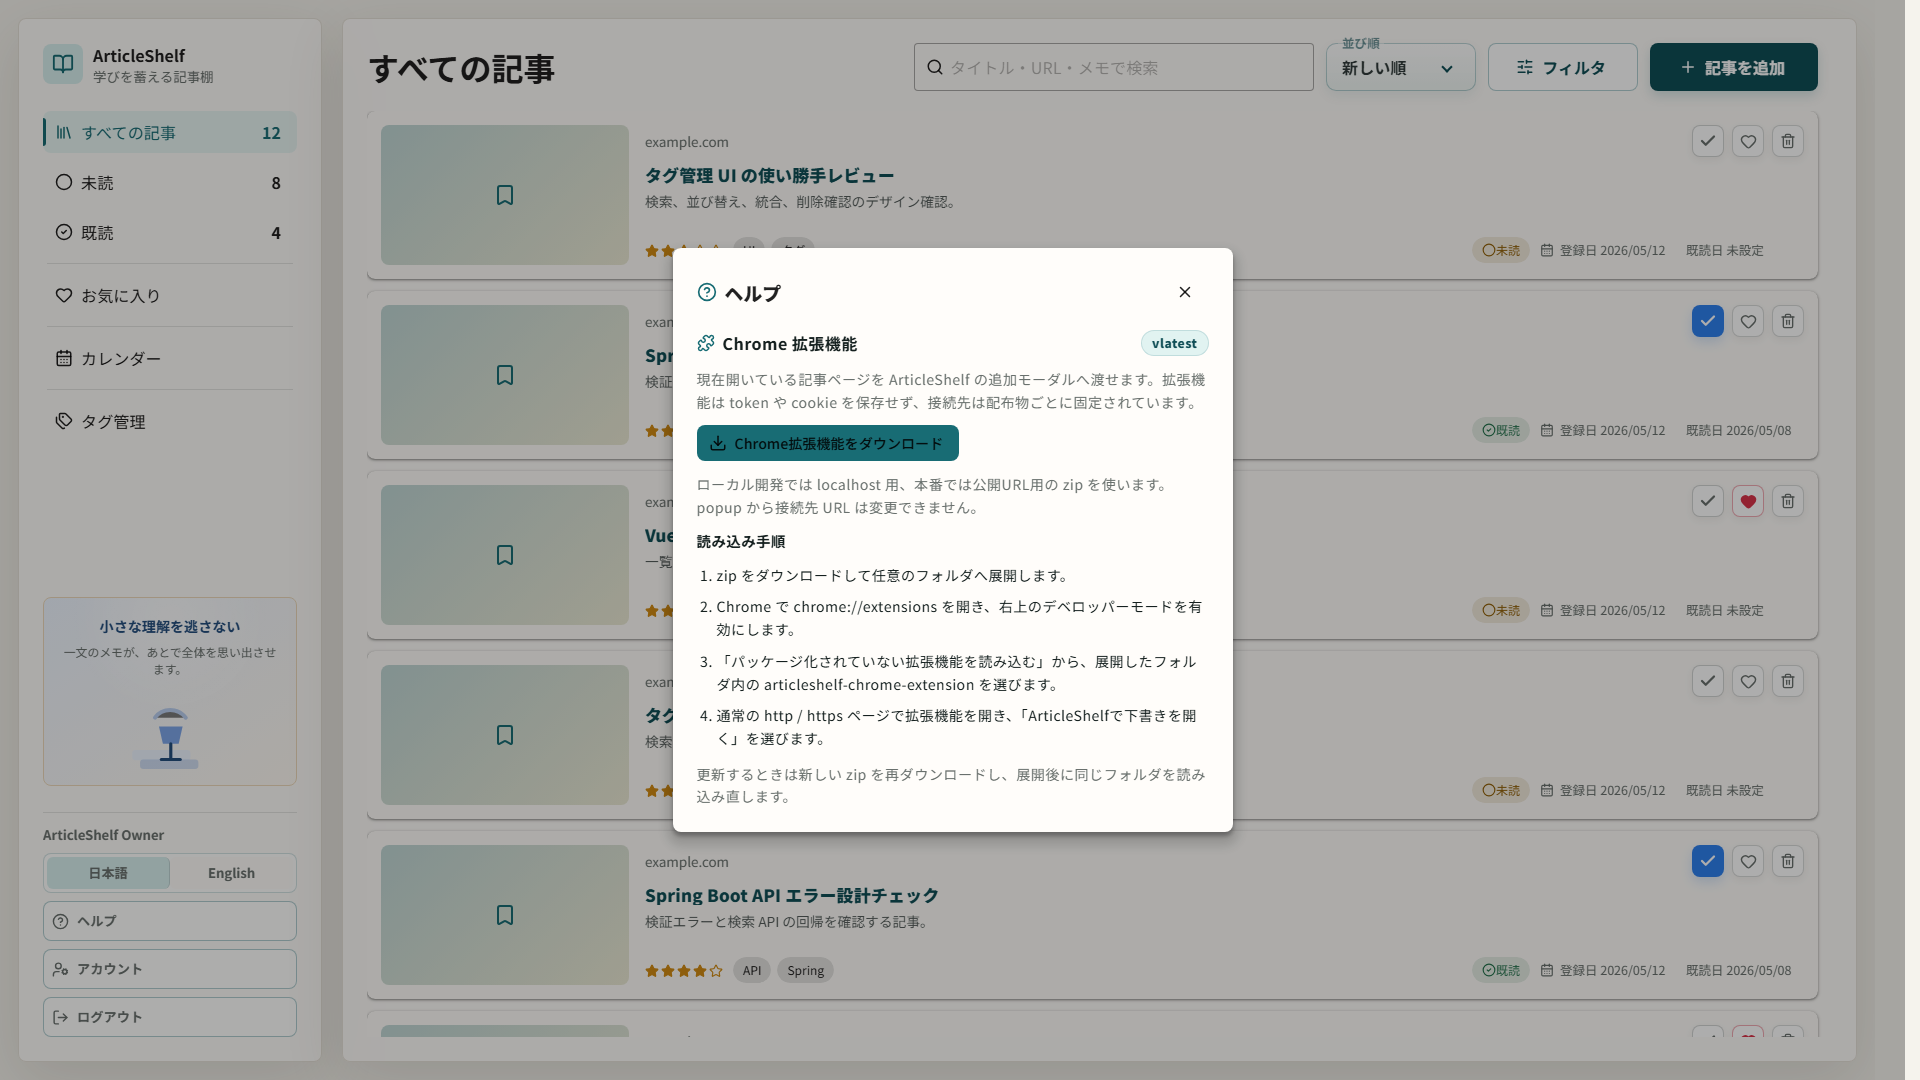
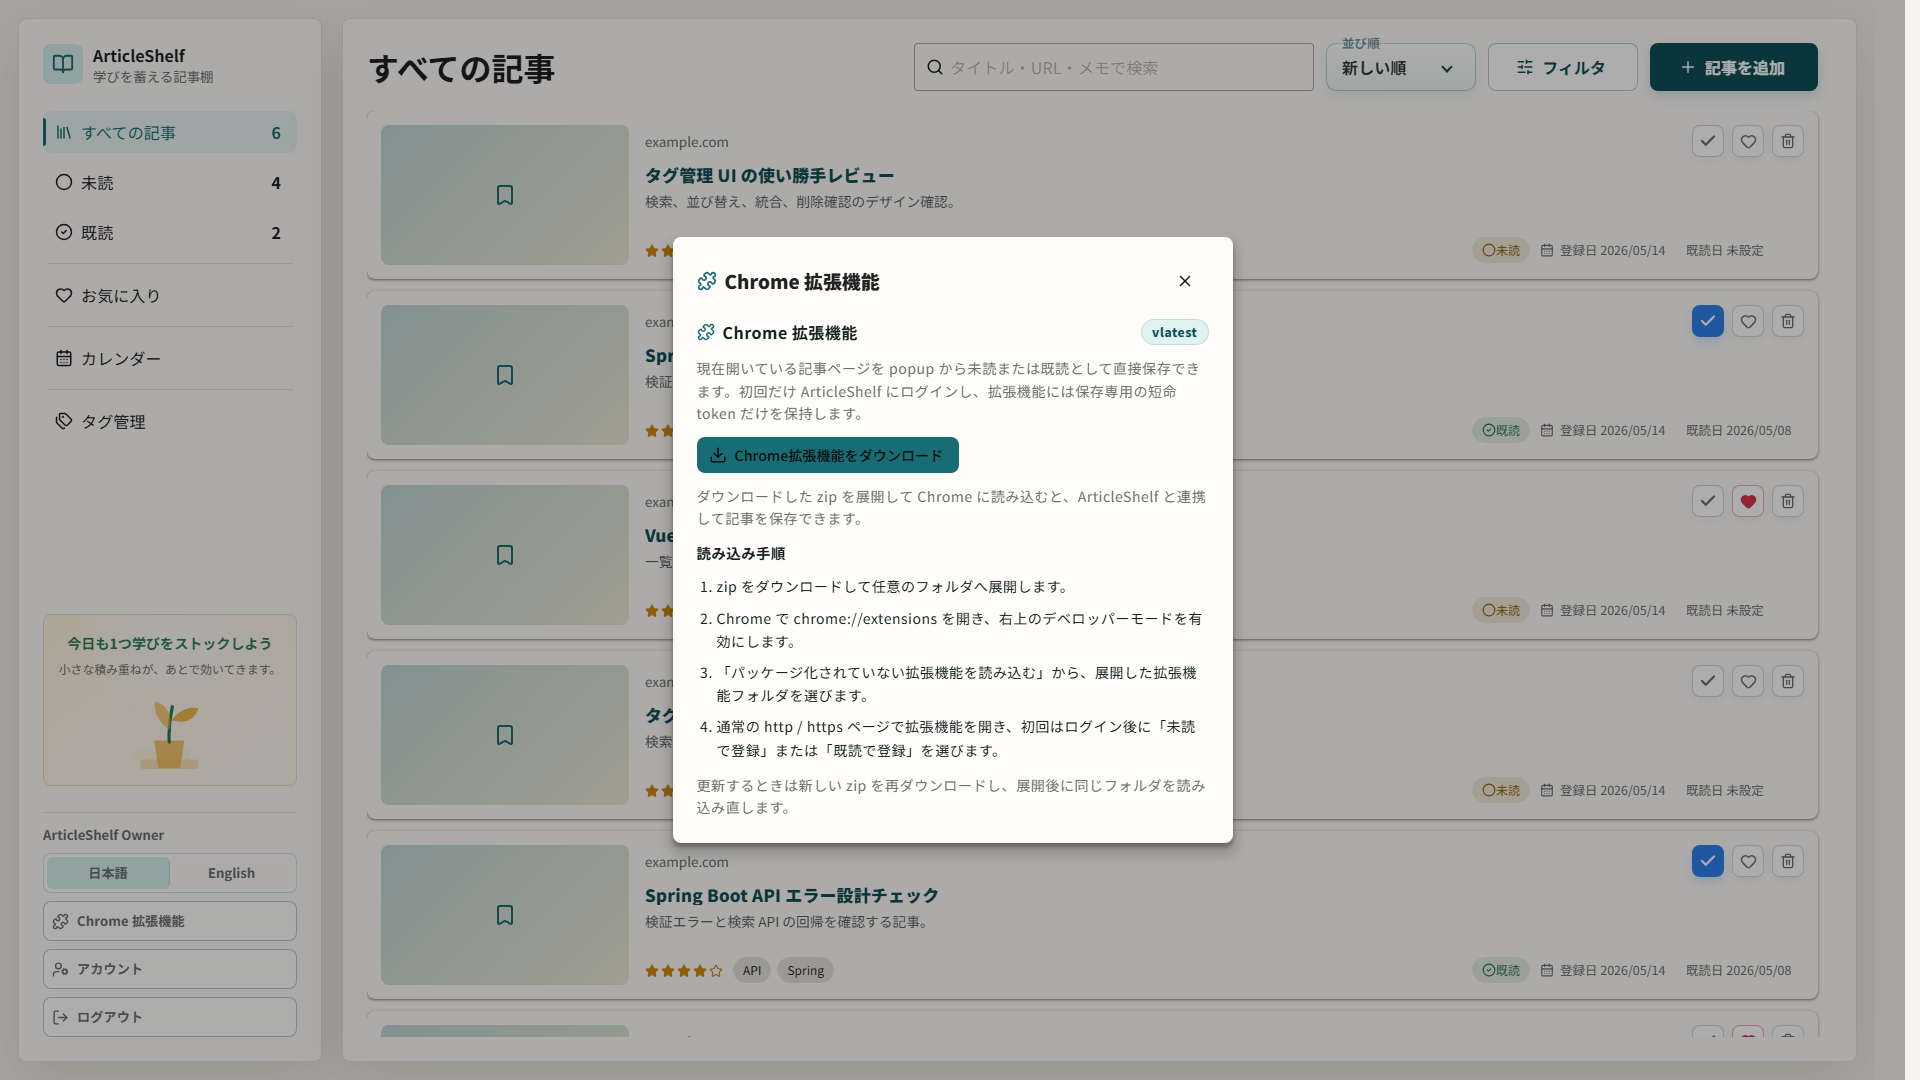
feat: Update Help dialog and sidebar to reflect Chrome extension functionality

diff --git a/frontend/src/shared/i18n/messages/ja.ts b/frontend/src/shared/i18n/messages/ja.ts
@@ -124,12 +124,12 @@ export const ja = {
       }
     },
     help: {
-      title: 'ヘルプ',
+      title: 'Chrome 拡張機能',
       chromeExtensionTitle: 'Chrome 拡張機能',
       extensionVersion: 'v{version}',
       chromeExtensionDescription: '現在開いている記事ページを popup から未読または既読として直接保存できます。初回だけ ArticleShelf にログインし、拡張機能には保存専用の短命 token だけを保持します。',
       chromeExtensionDownload: 'Chrome拡張機能をダウンロード',
-      chromeExtensionTarget: 'ローカル開発では localhost 用、本番では公開URL用の zip を使います。popup から接続先 URL は変更できません。',
+      chromeExtensionTarget: 'ダウンロードした zip を展開して Chrome に読み込むと、ArticleShelf と連携して記事を保存できます。',
       chromeExtensionStepsTitle: '読み込み手順',
       chromeExtensionStepOne: 'zip をダウンロードして任意のフォルダへ展開します。',
       chromeExtensionStepTwo: 'Chrome で chrome://extensions を開き、右上のデベロッパーモードを有効にします。',
@@ -151,7 +151,7 @@ export const ja = {
       favorite: 'お気に入り',
       calendar: 'カレンダー',
       tagManagement: 'タグ管理',
-      help: 'ヘルプ',
+      help: 'Chrome 拡張機能',
       account: 'アカウント',
       logout: 'ログアウト'
     },

diff --git a/frontend/src/shared/i18n/messages/en.ts b/frontend/src/shared/i18n/messages/en.ts
@@ -124,12 +124,12 @@ export const en = {
       }
     },
     help: {
-      title: 'Help',
+      title: 'Chrome extension',
       chromeExtensionTitle: 'Chrome extension',
       extensionVersion: 'v{version}',
       chromeExtensionDescription: 'Save the current article page directly from the popup as unread or read. You log in to ArticleShelf once, and the extension stores only a short-lived save-only token.',
       chromeExtensionDownload: 'Download Chrome extension',
-      chromeExtensionTarget: 'Use the localhost package for local development and the public URL package for production. The popup cannot change the target URL.',
+      chromeExtensionTarget: 'Download and extract the zip, then load it in Chrome to save articles directly to ArticleShelf.',
       chromeExtensionStepsTitle: 'Load in Chrome',
       chromeExtensionStepOne: 'Download the zip file and extract it to any folder.',
       chromeExtensionStepTwo: 'Open chrome://extensions in Chrome and enable Developer mode in the top right.',
@@ -151,7 +151,7 @@ export const en = {
       favorite: 'Favorites',
       calendar: 'Calendar',
       tagManagement: 'Tag management',
-      help: 'Help',
+      help: 'Chrome extension',
       account: 'Account',
       logout: 'Log out'
     },

diff --git a/frontend/src/features/articles/components/HelpDialog.test.ts b/frontend/src/features/articles/components/HelpDialog.test.ts
@@ -12,10 +12,12 @@ describe('HelpDialog', () => {
   it('shows Chrome extension download and loading steps', () => {
     const { root, app } = mountHelpDialog()
 
-    expect(root.textContent).toContain('ヘルプ')
     expect(root.textContent).toContain('Chrome 拡張機能')
+    expect(root.textContent).toContain('ArticleShelf と連携して記事を保存できます')
     expect(root.textContent).toContain('読み込み手順')
     expect(root.textContent).toContain('デベロッパーモード')
+    expect(root.textContent).not.toContain('ローカル開発')
+    expect(root.textContent).not.toContain('本番')
 
     const downloadLink = root.querySelector<HTMLAnchorElement>('a[download]')
     expect(downloadLink?.getAttribute('href')).toBe('/downloads/articleshelf-chrome-extension-local.zip')

diff --git a/frontend/src/features/articles/components/HelpDialog.vue b/frontend/src/features/articles/components/HelpDialog.vue
@@ -1,7 +1,7 @@
 <script setup lang="ts">
 import { onMounted, ref } from "vue";
 import { useI18n } from "vue-i18n";
-import { CircleHelp, Download, Puzzle, X } from "lucide-vue-next";
+import { Download, Puzzle, X } from "lucide-vue-next";
 import {
   extensionDownloadUrl,
   shouldLoadExtensionVersionFromGitHub,
@@ -68,7 +68,7 @@ function handleDialogUpdate(open: boolean): void {
     <VCard class="help-dialog">
       <header class="article-modal-header help-dialog-header">
         <h2>
-          <CircleHelp :size="20" />
+          <Puzzle :size="20" />
           <span>{{ t("help.title") }}</span>
         </h2>
         <div class="article-modal-header-actions">

diff --git a/frontend/src/features/articles/components/ArticleWorkspaceShell.vue b/frontend/src/features/articles/components/ArticleWorkspaceShell.vue
@@ -4,12 +4,12 @@ import {
   CalendarDays,
   CheckCircle2,
   Circle,
-  CircleHelp,
   Heart,
   Library,
   LogOut,
   Menu,
   Plus,
+  Puzzle,
   Tags,
   UserCog,
 } from "lucide-vue-next";
@@ -230,7 +230,7 @@ function setDrawerOpen(value: boolean): void {
             @click="emit('help')"
           >
             <template #prepend>
-              <CircleHelp :size="17" />
+              <Puzzle :size="17" />
             </template>
             {{ t("nav.help") }}
           </VBtn>

diff --git a/frontend/src/features/articles/components/AppSidebar.vue b/frontend/src/features/articles/components/AppSidebar.vue
@@ -4,10 +4,10 @@ import {
   CalendarDays,
   CheckCircle2,
   Circle,
-  CircleHelp,
   Heart,
   Library,
   LogOut,
+  Puzzle,
   Tags,
   UserCog,
 } from "lucide-vue-next";
@@ -178,7 +178,7 @@ function changeLocale(value: unknown): void {
         @click="emit('help')"
       >
         <template #prepend>
-          <CircleHelp :size="17" />
+          <Puzzle :size="17" />
         </template>
         {{ t("nav.help") }}
       </VBtn>

diff --git a/docs/specs/ui/README.md b/docs/specs/ui/README.md
@@ -129,9 +129,10 @@
 - 入力欄の項目名は入力欄外の固定ラベルとして表示し、ブラウザの自動入力時に入力値と重ならないようにする
 - 入力欄のプレースホルダーは入力例に限定し、ユーザー登録時のユーザー名やパスワードの入力ルールは欄下のヒントとして表示する
 - 認証処理中は送信ボタンをローディング表示にし、文言を「ログイン中...」「登録中...」へ切り替え、入力とログイン / 登録切り替えを一時的に disabled にして二重送信を防止する
-- ログイン後のサイドバーには Help、アカウント設定、ログアウト導線を表示する
-- Help ダイアログでは、Chrome 拡張機能の direct save の役割、配布 zip ダウンロード導線、現在のバージョン表示、`chrome://extensions` でのローカルインストール手順、再インストール案内を確認できるようにする
-- Chrome 拡張機能の配信 URL は production では GitHub Releases の本番用 zip、local development では `/downloads/articleshelf-chrome-extension-local.zip` を既定とし、必要な場合は `VITE_EXTENSION_DOWNLOAD_URL` で上書き可能
+- ログイン後のサイドバーには Chrome 拡張機能、アカウント設定、ログアウト導線を表示する
+- Chrome 拡張機能ダイアログでは、direct save の役割、配布 zip ダウンロード導線、現在のバージョン表示、`chrome://extensions` での読み込み手順、再インストール案内を確認できるようにする
+- Chrome 拡張機能ダイアログでは利用者に環境別の配布差を説明せず、ダウンロードした zip を展開して Chrome に読み込む操作だけを案内する
+- Chrome 拡張機能の配信 URL は、公開環境では GitHub Releases の配布 zip、開発時は `/downloads/articleshelf-chrome-extension-local.zip` を既定とし、必要な場合は `VITE_EXTENSION_DOWNLOAD_URL` で上書き可能
 - アカウント設定では、パスワード変更、全端末ログアウト、退会だけを扱う
 - 通常のログアウト、パスワード変更、全端末ログアウト、退会に成功した場合は auth state と記事一覧系 state をクリアし、ログイン画面へ戻る
 
